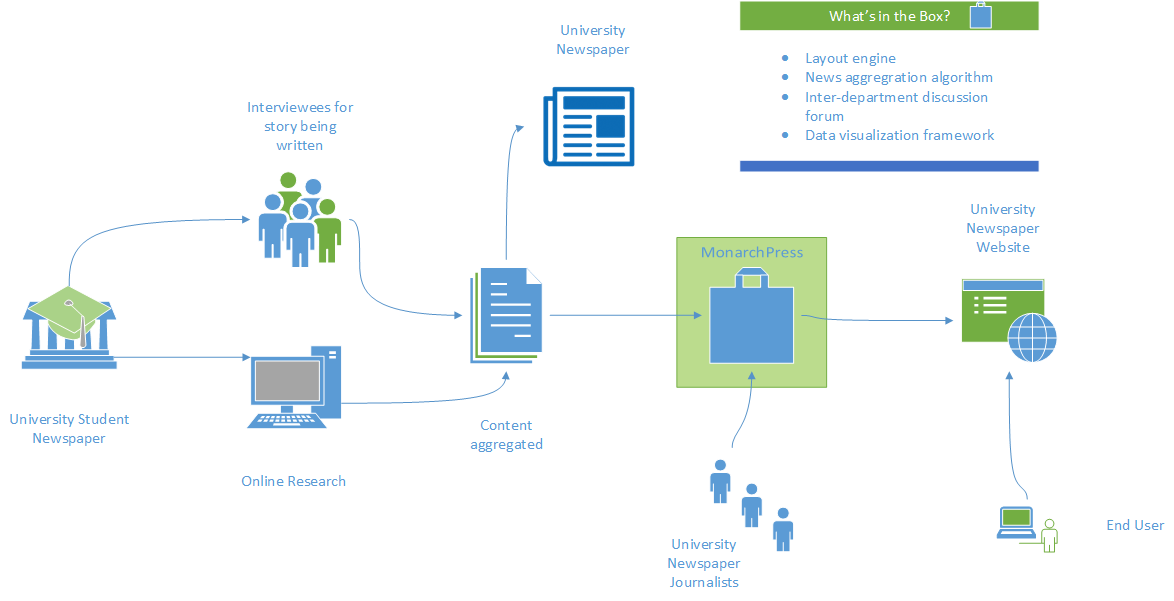
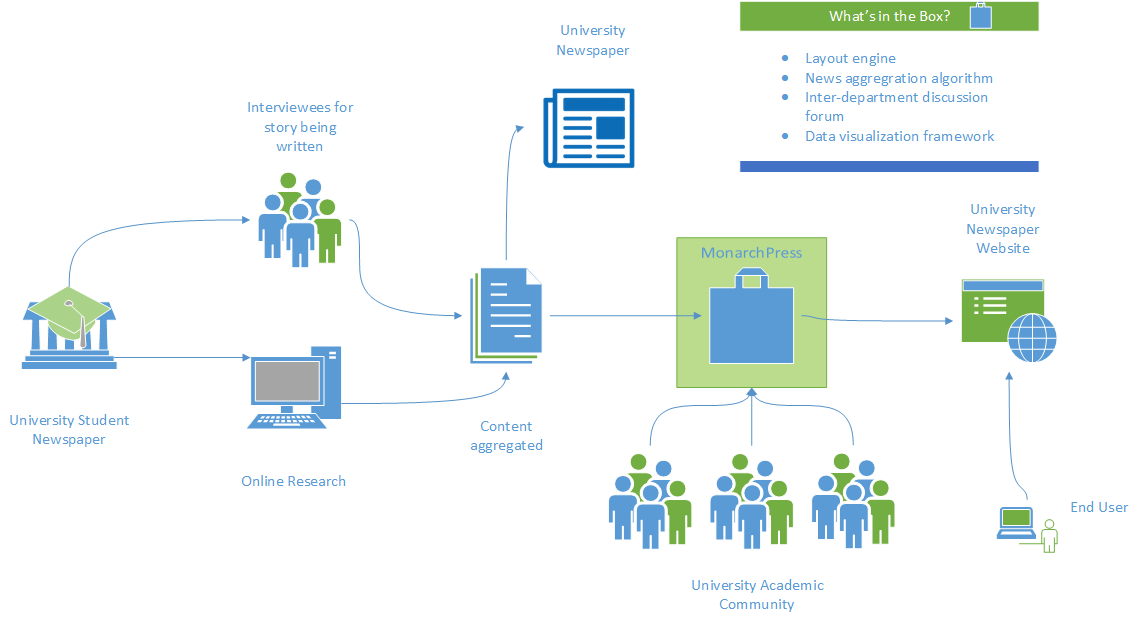
Updated process diagrams to include suggestions from Professor Brunelle

diff --git a/problem.php b/problem.php
@@ -180,7 +180,7 @@
 						</h3>
 					</div>
 					<div class="panel-body" align="center">
-						<img src="./images/process_diagram_1.png" class="img-responsive"/><br/>
+						<img src="./images/new_current_process.png" class="img-responsive"/><br/>
 
 						<p class="text-left">The current process flow diagram needs software to intervene at two separate stages. The first is when content is being aggregated for a story. University newspapers could stand to have better social media integration for the stories uploaded to their websites. This would mean utilizing guest columnists, whitelisted twitter feeds, and reputation based forums for users to engage in discussion. Lastly, software intervention is needed before stories are pushed to university newspaper websites. Due to the lacking technological skillset of undergraduate journalists, content uploaded isn’t captivating enough to preserve the attention of readers. Adjustments to the aesthetic of these stories as well as data visualization to accompany those changes is needed.</p>
 					</div>
